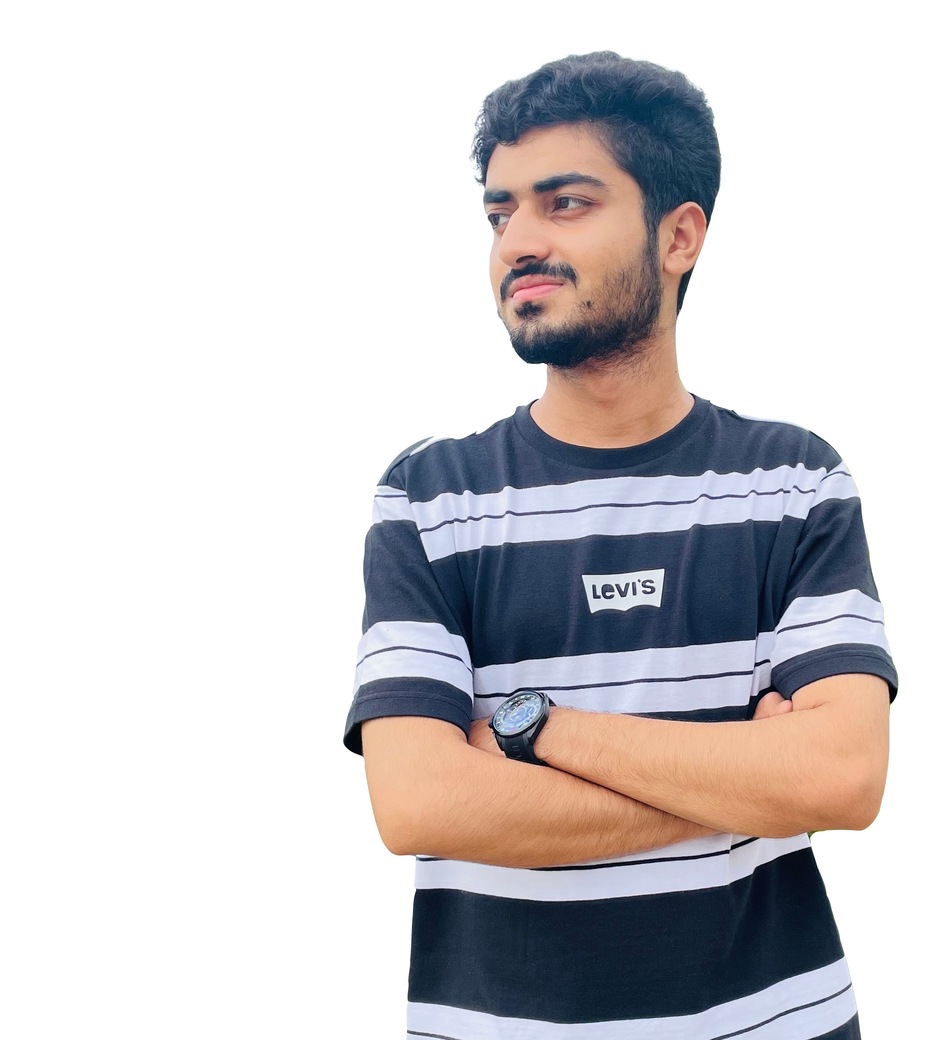
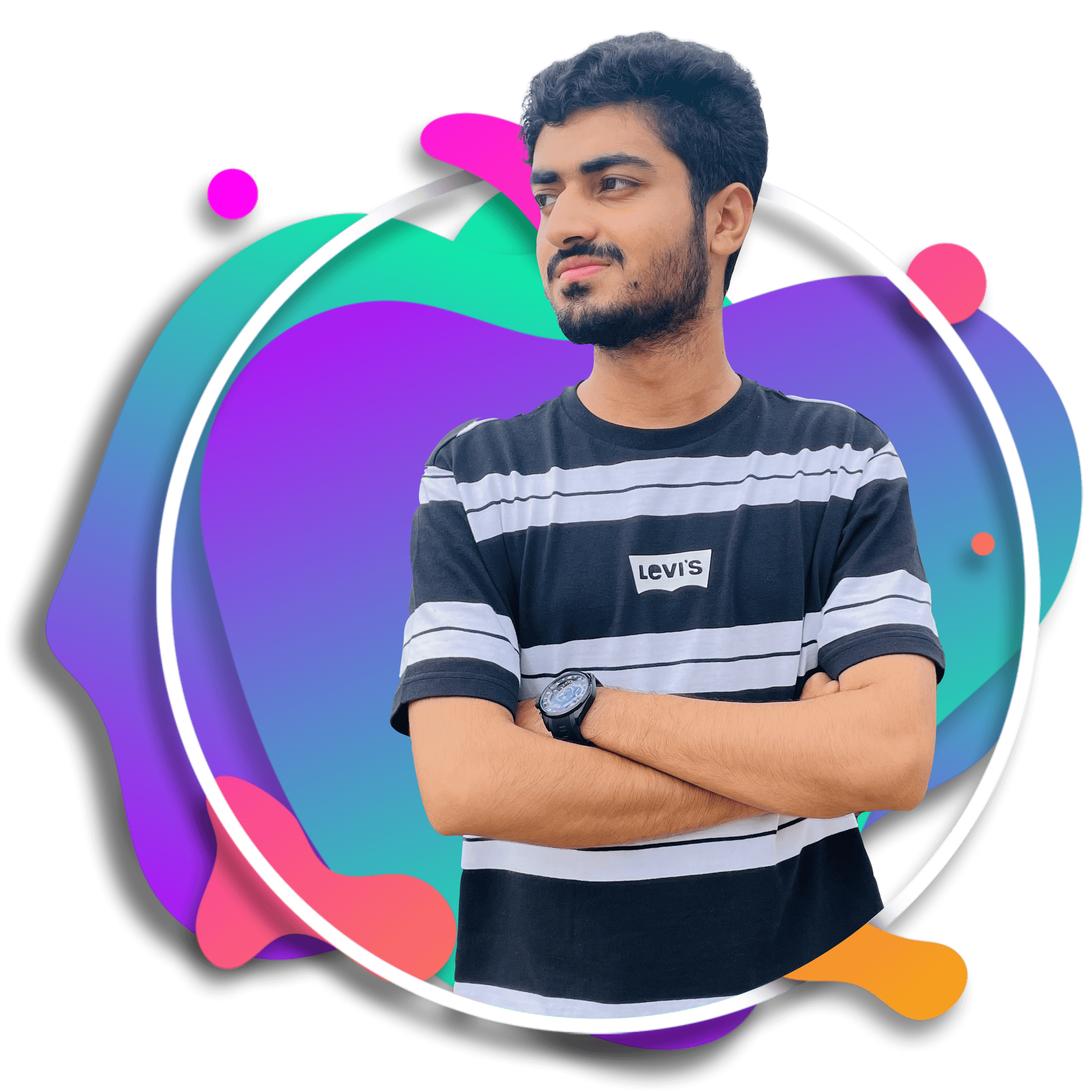
UI and Data updation

diff --git a/lib/pages/home/components/carousel.dart b/lib/pages/home/components/carousel.dart
@@ -38,7 +38,7 @@ class _CarouselState extends State<Carousel> with TickerProviderStateMixin {
 
     _imageAnimationController = AnimationController(
       vsync: this,
-      duration: Duration(seconds: 3),
+      duration: Duration(seconds: 4),
     );
 
     _flutterIconAnimation = CurvedAnimation(
@@ -205,20 +205,21 @@ class _CarouselState extends State<Carousel> with TickerProviderStateMixin {
                       height: 1.5,
                     ),
                   ),
-                  MaterialButton(
-                    height: 15,
-                    padding: EdgeInsets.all(0),
-                    onPressed: () {
+                  GestureDetector(
+                    onTap: () {
                       launchURL('https://www.instagram.com/rashidwassaan/');
                     },
-                    child: Text(
-                      " Got a project? Let's talk.",
-                      style: TextStyle(
-                        height: 1.5,
-                        color: Colors.white,
-                        fontSize: 15.0,
+                    child: MouseRegion(
+                      onHover: (v) {},
+                      child: Text(
+                        " Got a project? Let's talk.",
+                        style: TextStyle(
+                          height: 1.5,
+                          color: Colors.white,
+                          fontSize: 15.0,
+                        ),
                       ),
-                    ).px(3),
+                    ),
                   )
                 ],
               ),
@@ -270,7 +271,7 @@ class _CarouselState extends State<Carousel> with TickerProviderStateMixin {
                 alignment: Alignment.topLeft,
                 children: [
                   ClipRRect(
-                    borderRadius: BorderRadius.circular(500),
+                    borderRadius: BorderRadius.circular(0),
                     child: Container(
                       child: Image.asset(
                         "assets/rashid.png",
@@ -280,15 +281,27 @@ class _CarouselState extends State<Carousel> with TickerProviderStateMixin {
                     ),
                   ),
                   SizedBox(
-                    height: 110,
-                    width: 110,
-                    child: Center(
-                      child: Image.asset(
-                        _tech[_currentTech],
-                        height: _flutterIconAnimation.value * 120,
+                    width: 150,
+                    child: Container(
+                      decoration: BoxDecoration(
+                          boxShadow: [
+                            BoxShadow(
+                                color: Colors.black38,
+                                offset: Offset(-3, 3),
+                                blurRadius: 4,
+                                spreadRadius: 0.1)
+                          ],
+                          color: Color(0xFFff03f7).withOpacity(0.9),
+                          shape: BoxShape.circle),
+                      child: Center(
+                        child: Image.asset(
+                          _tech[_currentTech],
+                          height: _flutterIconAnimation.value * 90,
+                          width: _flutterIconAnimation.value * 90,
+                        ).p(5),
                       ),
                     ),
-                  ).pOnly(top: 45, left: 30),
+                  )
                 ],
               ),
             )

diff --git a/lib/pages/home/components/ios_app_ad.dart b/lib/pages/home/components/ios_app_ad.dart
@@ -47,7 +47,7 @@ class IosAppAd extends StatelessWidget {
                       crossAxisAlignment: CrossAxisAlignment.start,
                       children: [
                         Text(
-                          "IOS APP",
+                          "MOBILE APP",
                           style: GoogleFonts.oswald(
                             color: kPrimaryColor,
                             fontWeight: FontWeight.w900,
@@ -58,7 +58,7 @@ class IosAppAd extends StatelessWidget {
                           height: 15.0,
                         ),
                         Text(
-                          "UNIVERSAL\nSMART HOME APP",
+                          "REAPET\nPET ADOPTING APP",
                           style: GoogleFonts.oswald(
                             color: Colors.white,
                             fontWeight: FontWeight.w900,
@@ -70,7 +70,7 @@ class IosAppAd extends StatelessWidget {
                           height: 10.0,
                         ),
                         Text(
-                          "This is a random text about the project, I should have used the regular lorem ipsum text, but I am too lazy to search for that. This should be long enough",
+                          "Reapet is an pet adopting application that takes care of your pet by providing lots of services like: online marketplace for animal food, care taking services & much more!",
                           style: TextStyle(
                             color: kCaptionColor,
                             height: 1.5,

diff --git a/lib/pages/home/components/education_section.dart b/lib/pages/home/components/education_section.dart
@@ -20,18 +20,18 @@ final List<Education> educationList = [
     linkName: "www.mazharcollege.edu.pk",
     period: "2011 - 2019",
   ),
-  Education(
-    description:
-        "This is a sample education and details about it is stated below. This is a sample education and details about it is stated below",
-    linkName: "www.flutterpanda.com",
-    period: "2017 - 2018",
-  ),
-  Education(
-    description:
-        "This is a sample education and details about it is stated below. This is a sample education and details about it is stated below",
-    linkName: "www.flutterpanda.com",
-    period: "2016 - 2017",
-  ),
+  // Education(
+  //   description:
+  //       "This is a sample education and details about it is stated below. This is a sample education and details about it is stated below",
+  //   linkName: "www.flutterpanda.com",
+  //   period: "2017 - 2018",
+  // ),
+  // Education(
+  //   description:
+  //       "This is a sample education and details about it is stated below. This is a sample education and details about it is stated below",
+  //   linkName: "www.flutterpanda.com",
+  //   period: "2016 - 2017",
+  // ),
 ];
 
 class EducationSection extends StatelessWidget {

diff --git a/lib/pages/home/components/cv_section.dart b/lib/pages/home/components/cv_section.dart
@@ -24,19 +24,19 @@ final List<DesignProcess> designProcesses = [
     title: "DEVELOP",
     imagePath: "assets/develop.png",
     subtitle:
-        "Strong understanding of object oriented programming along with best practices for performance",
+        "Strong understanding of object oriented programming along with best practices for performance.",
   ),
   DesignProcess(
     title: "WRITE",
     imagePath: "assets/write.png",
     subtitle:
-        "A full stack allround writer thay may or may not include a guide for specific creative",
+        "Experience of multiple well-written articles. Click articles button in upper right corner to learn more.",
   ),
   DesignProcess(
-    title: "PROMOTE",
+    title: "CREATIVITY",
     imagePath: "assets/promote.png",
     subtitle:
-        "A full stack allround promoter thay may or may not include a guide for specific creative",
+        "Good hands-on experience in generating design ideas according to client's needs and expectations.",
   ),
 ];
 

diff --git a/lib/pages/home/components/testimonial_widget.dart b/lib/pages/home/components/testimonial_widget.dart
@@ -9,15 +9,15 @@ final List<Testimonial> testimonials = [
   Testimonial(
     text:
         "This is a testimonial text from Janny Stone. Michele is a professional at what he does and never ceases to amaze me with his beautiful works. I will like to work with him in the future again.",
-    occupation: "Product Designer",
-    personName: "JANNY STONE",
-    profilePhoto: "assets/female.png",
+    occupation: "CEO IsaaTech",
+    personName: "SAAD MUJEEB",
+    profilePhoto: "assets/male.png",
   ),
   Testimonial(
     text:
         "This is a testimonial text from Ken Williams. Michele is a professional at what he does and never ceases to amaze me with his beautiful works. I will like to work with him in the future again.",
-    occupation: "Art Director",
-    personName: "KEN WILLIAMS",
+    occupation: "MERN Stack Developer",
+    personName: "MUZAMMIL NAWAZ",
     profilePhoto: "assets/male.png",
   )
 ];

diff --git a/lib/pages/home/components/footer.dart b/lib/pages/home/components/footer.dart
@@ -10,8 +10,8 @@ final List<FooterItem> footerItems = [
   FooterItem(
     iconPath: "assets/mappin.png",
     title: "ADDRESS",
-    text1: "Room #72",
-    text2: "Latif Hostel MUET",
+    text1: "Room #72, Latif Hostel MUET",
+    text2: "Jamshoro, Sindh Pakistan",
   ),
   FooterItem(
     iconPath: "assets/phone.png",
